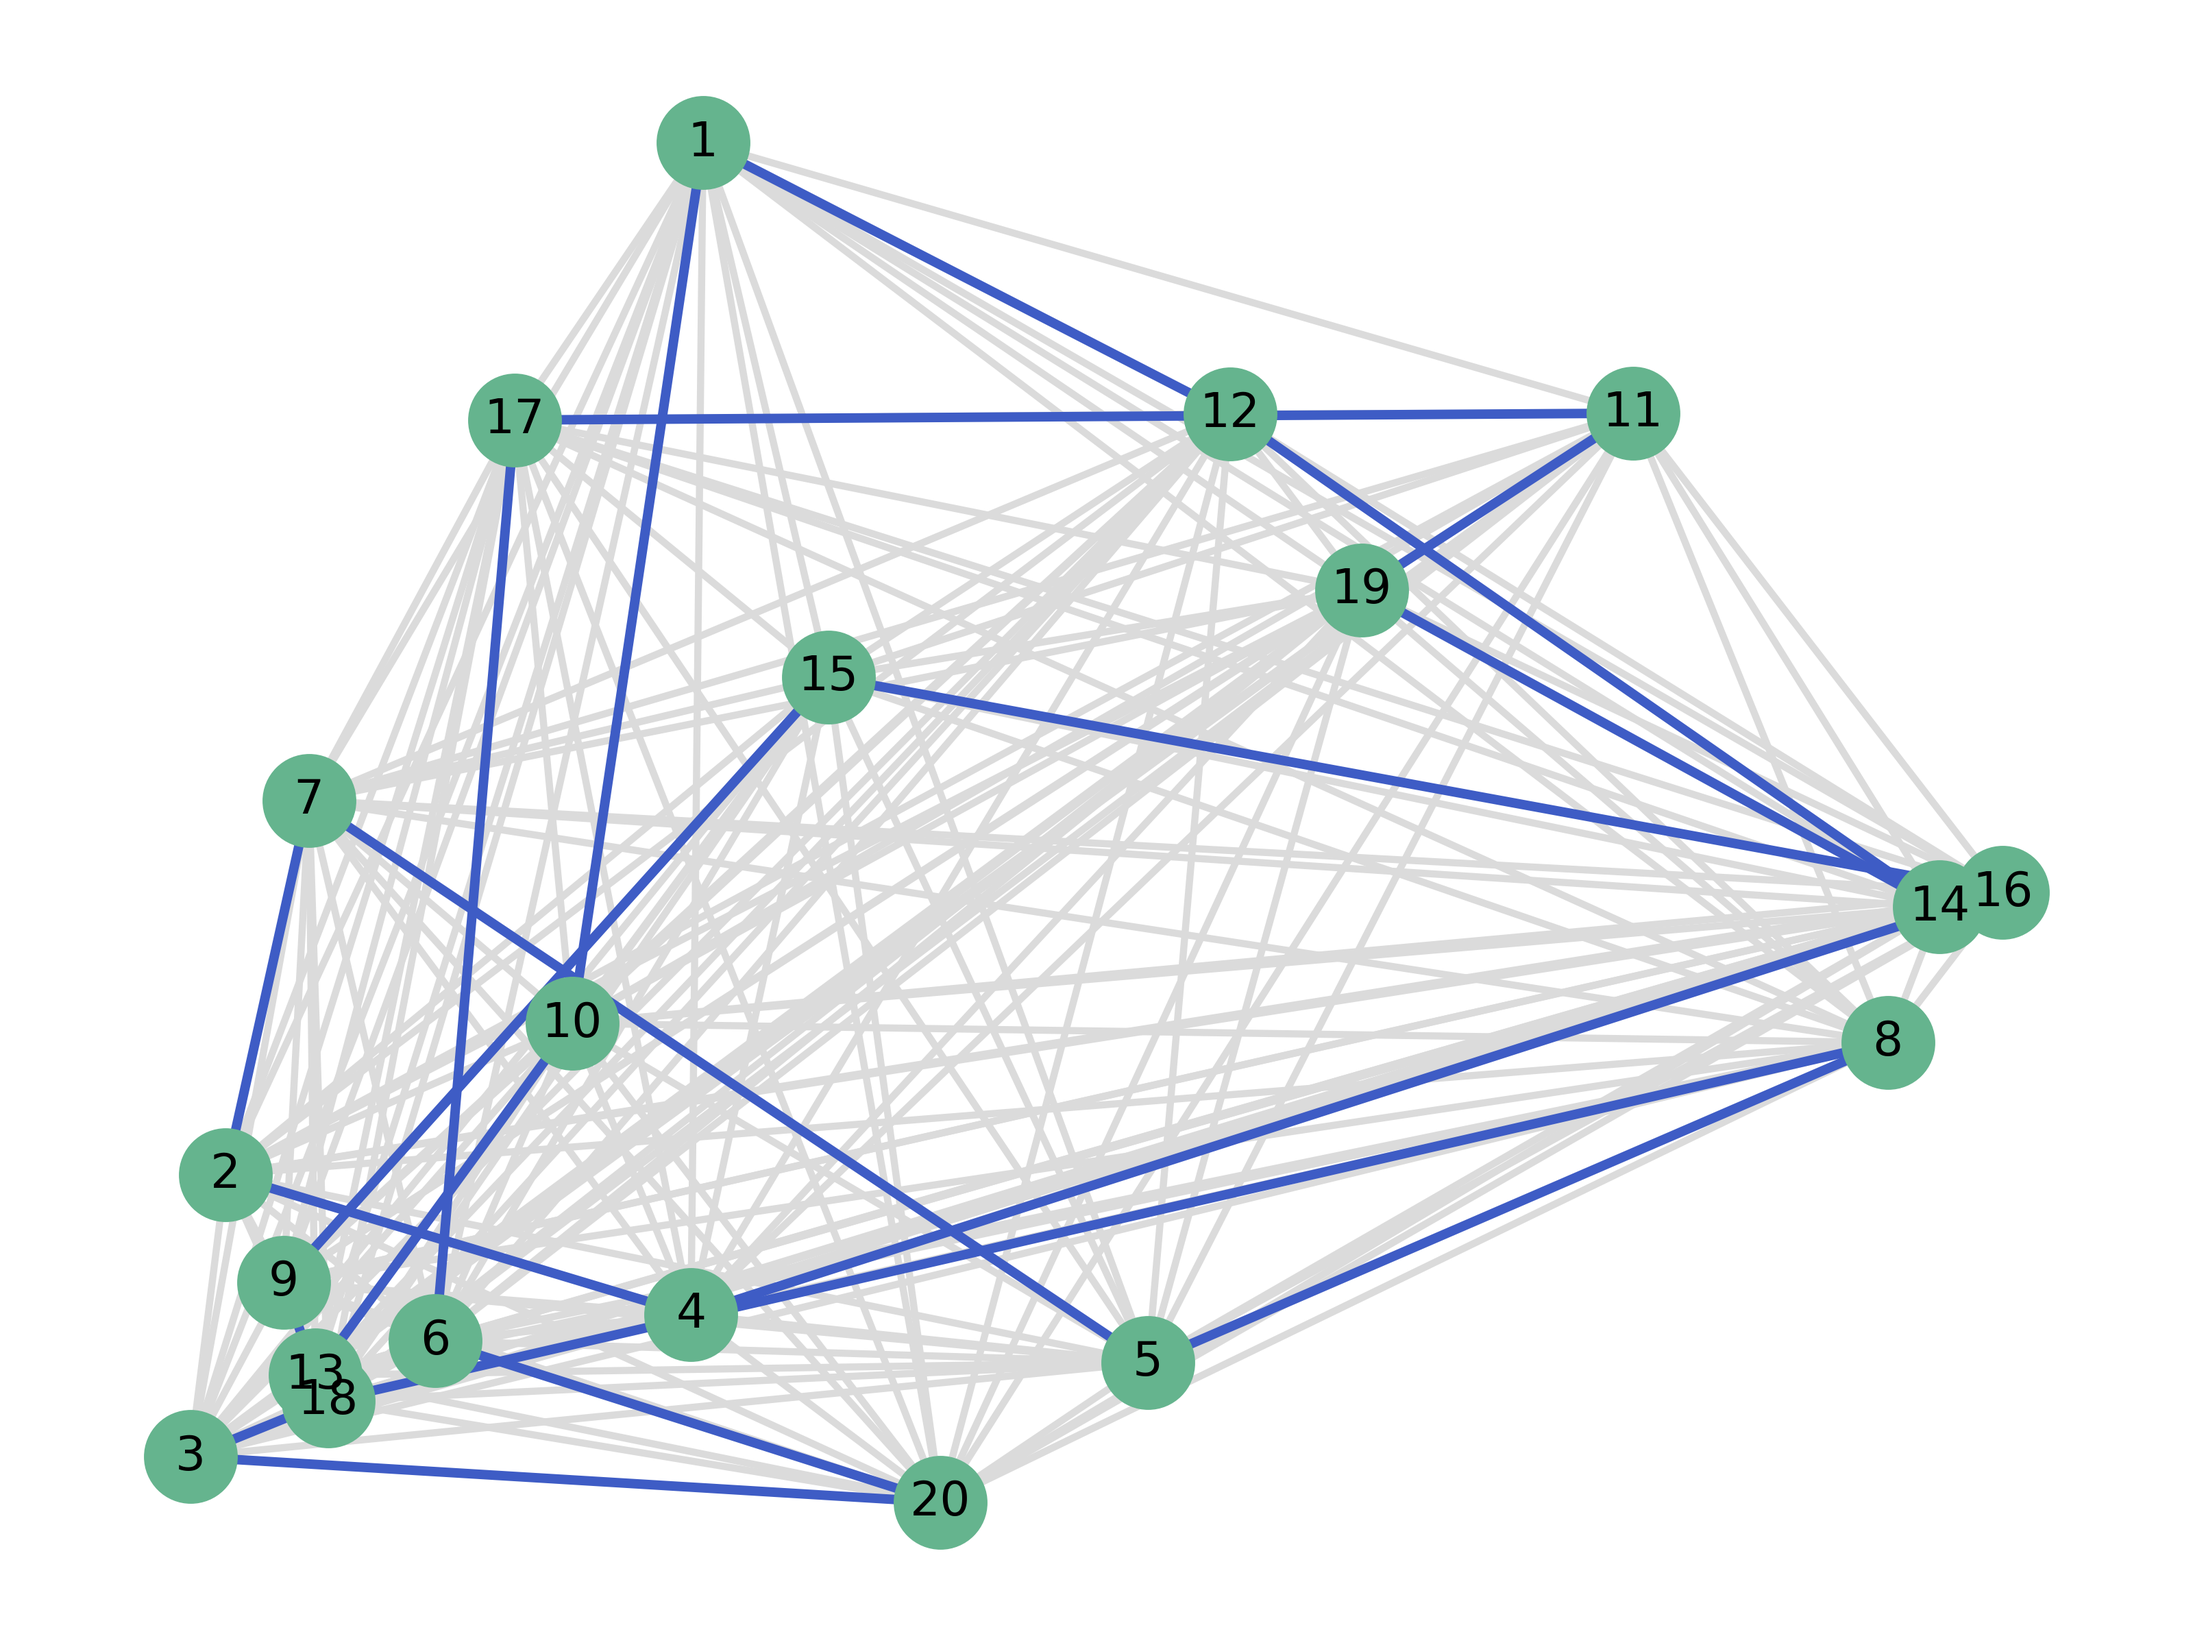
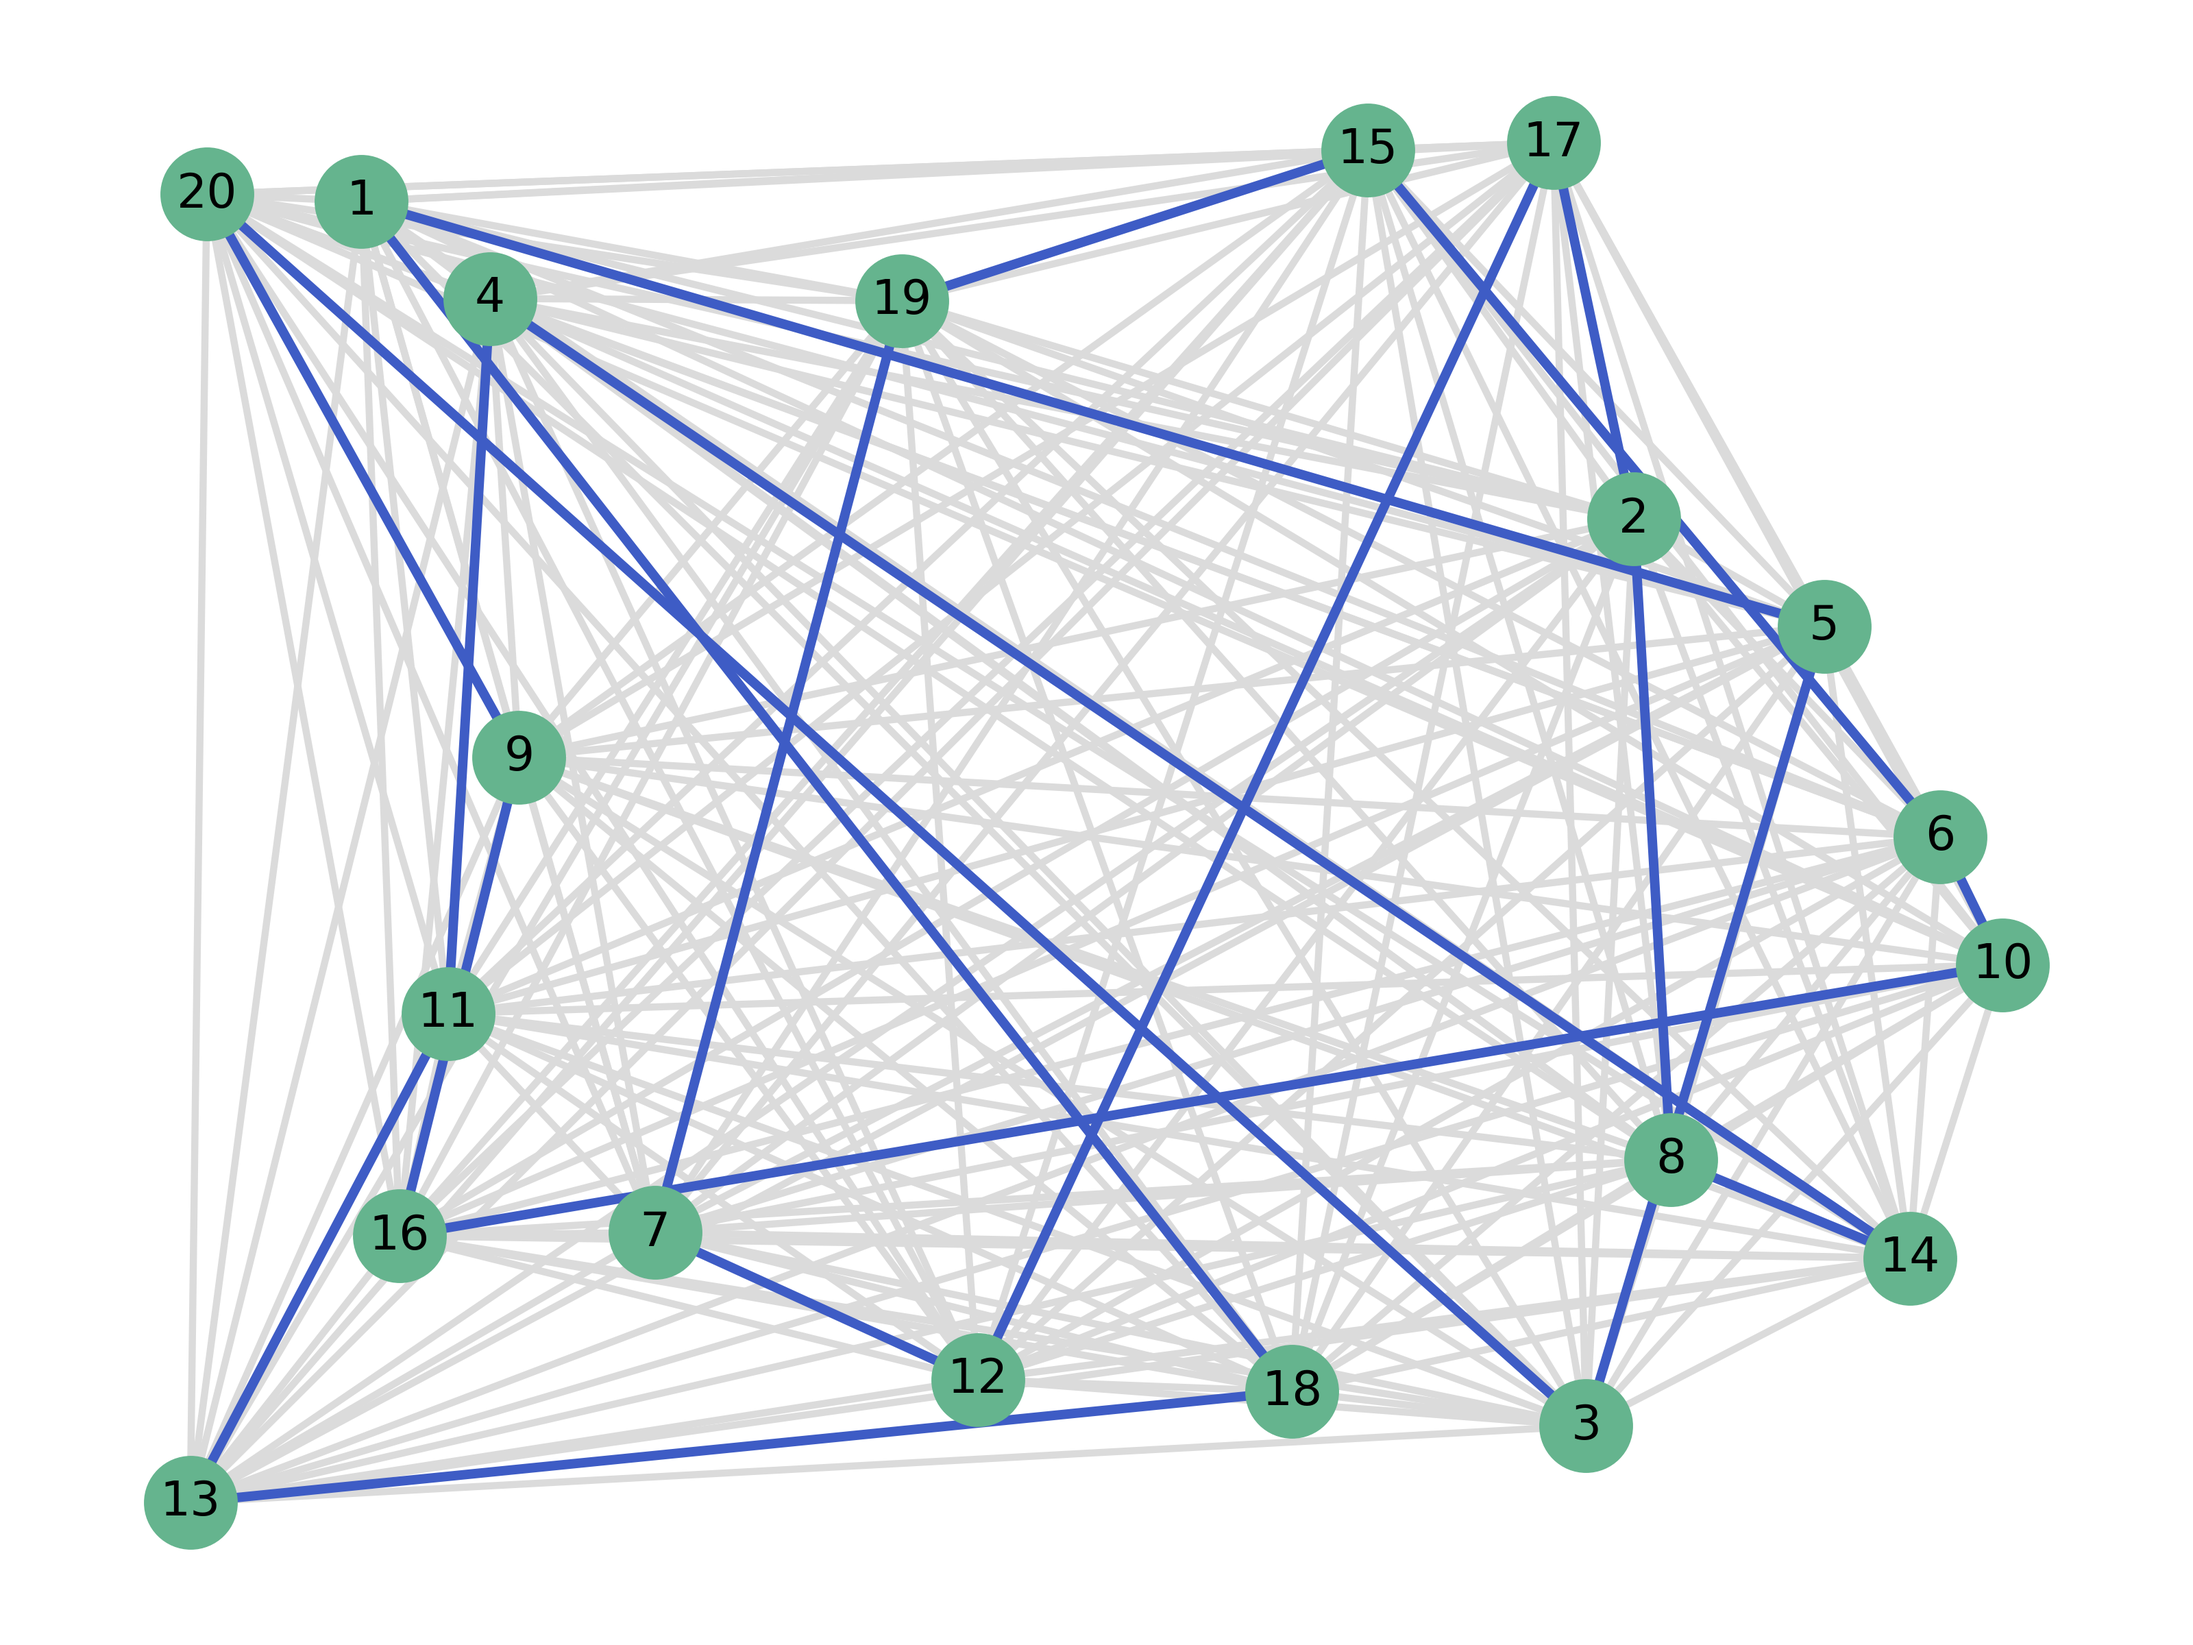
pre-defined maps

diff --git a/playground/templates/playground/hc.html b/playground/templates/playground/hc.html
@@ -14,7 +14,8 @@
 
 <body>
     <div id="controls">
-        <h2>Travelling salesman problem parameters</h2>
+        <h2>TSP parameters</h2>
+        <h3>Pre-defined maps</h3>
         <label>City count:</label>
         <input type="radio" name="city-count" value="5"> 5 cities
         <input type="radio" name="city-count" value="10"> 10 cities

diff --git a/playground/views.py b/playground/views.py
@@ -16,6 +16,9 @@ def extract_number(string):
 def hc(request):
     if request.method == 'POST':
         num_cities = int(request.POST.get('city_count'))
+        filename = f'tour{num_cities}.csv'
+        filepath = os.path.join(settings.BASE_DIR, 'data', 'maps', filename)
+        print(filepath)
         context = dict()
             
         # Clean up old plot files
@@ -25,7 +28,7 @@ def hc(request):
             if os.path.isfile(file_path):
                 os.unlink(file_path)
                 
-        hc = HillClimbing(num_cities)
+        hc = HillClimbing(num_cities, filepath)
         tour, distance = hc.run()
 
         # Gather plot file paths

diff --git a/playground/urls.py b/playground/urls.py
@@ -3,8 +3,7 @@ from . import views
 
 # URLconf
 urlpatterns = [
-    path("hc/", views.hc, name="hc"),
+    path("", views.hc, name="hc"),
     path("hc_restarts/", views.hc_restarts, name="hc_restarts"),
     path("hc_larger_radii/", views.hc_larger_radii, name="hc_larger_radii"),
-    # path("update_hc/", views.update_hc, name="update_hc"),
 ]
